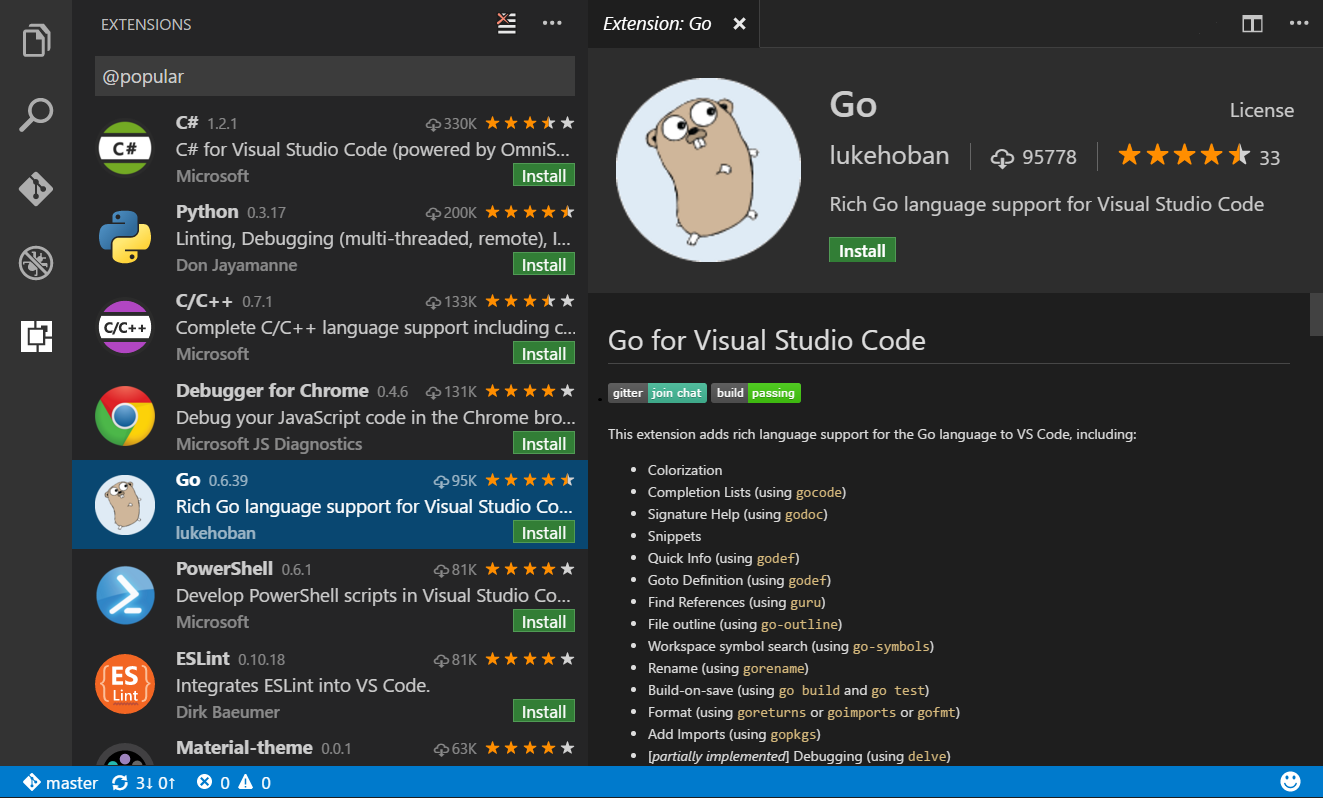
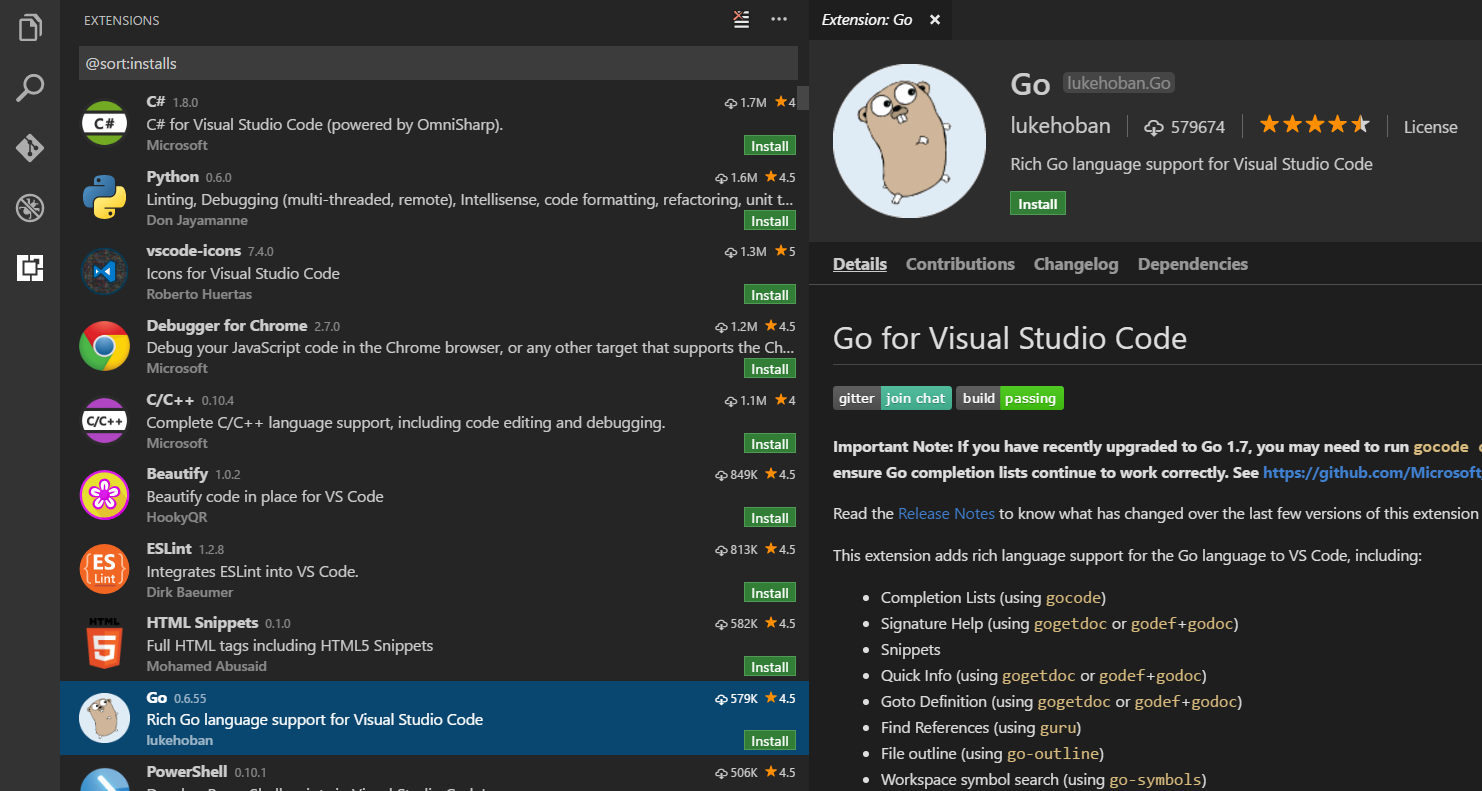
Call out extensions view contributions, changelog and dependencies. Fixes #696

diff --git a/docs/editor/extension-gallery.md b/docs/editor/extension-gallery.md
@@ -9,11 +9,11 @@ MetaDescription: Find out how to discover, add, update, disable and uninstall Vi
 ---
 # VS Code Extension Marketplace
 
-## Increase the power of VS Code through Extensions
+**Increase the power of VS Code through Extensions**
 
 The features that VS Code includes out-of-the-box are just the start. VS Code extensions let you add languages, debuggers, and tools to your installation to support your development workflow. VS Code's rich extensibility model lets extension authors plug directly into the VS Code UI and contribute functionality through the same APIs used by VS Code.  This topic explains how to find, install, and manage VS Code extensions.
 
-## Browse and Install Extensions in VS Code
+## Browse and install extensions
 
 You can browse and install extensions from within VS Code. Bring up the Extensions view by clicking on the Extensions icon in the **Activity Bar** on the side of VS Code.
 
@@ -24,6 +24,18 @@ This will show you a list of the most popular VS Code extensions on the [VS Code
 ![popular extensions](images/extension-gallery/extensions-popular.png)
 
 Each extension in the list includes a brief description, the publisher, the download count and a five star rating. You can click on the extension item to display the extension's [VS Code Marketplace](https://marketplace.visualstudio.com/VSCode) page where you can learn more.
+
+In addition you can also review the extension's:
+
+* **Contributions** - The extension's additions to VS Code such as settings, commands and keyboard shortcuts, language grammars, debugger, etc.
+* **Changelog** - The extension repository CHANGELOG if available.
+* **Dependencies** - Indicates if the extension depends on other extensions.
+
+![extension contributions](images/extension-gallery/extension-contributions.png)
+
+If an extension is an Extension Pack, the **Dependencies** tab will display which extensions will be installed. [Extension Packs](/docs/extensions/extension-manifest.md#extension-packs) bundle separate extensions together so they can be installed together.
+
+![extension dependencies](images/extension-gallery/extension-dependencies.png)
 
 >**Note:** If your computer's Internet access goes through a proxy server, you will need to configure the proxy server. See [Proxy Server Support](/docs/setup/setup-overview.md#proxy-server-support) for details.
 
@@ -36,13 +48,13 @@ By clicking on the view's `...` **More** button, it is possible to show:
 
 You can sort the extension list by **Install Count** or **Rating** in either ascending or descending order.
 
-## Install an Extension
+## Install an extension
 
-Simply click the **Install** button and after a successful install, you'll see an **Enable** button which will prompt you to restart VS Code to enable the new extension.
+Simply click the **Install** button and after a successful install, you'll see an **Reload** button which will prompt you to restart VS Code to enable the new extension.
 
-## Search for an Extension
+## Search for an extension
 
-You can clear the Search box at the top of the Extensions View and type in the name of the extension, tool or programming language you're looking for. 
+You can clear the Search box at the top of the Extensions View and type in the name of the extension, tool or programming language you're looking for.
 
 For example, typing 'python' will bring up a list of Python language extensions:
 
@@ -50,35 +62,39 @@ For example, typing 'python' will bring up a list of Python language extensions:
 
 You can see a list of recommended extensions (based on your workspace file types), using **Show Recommended Extensions** which sets the '@recommended' filter.
 
-## List Installed Extensions
+## Manage extensions
+
+VS Code makes it very easy to manage your extensions. You can install, disable, update, and uninstall extensions through the Extensions view, **Command Prompt** (**Extensions"** scope) or command line.
+
+### List installed extensions
 
 **Show Installed Extensions** will clear the search box and shows the list of installed extensions.
 
-## Uninstall an Extension
+### Uninstall an extension
 
 To uninstall an extension, click the **Uninstall** button. This will uninstall the extension and prompt you to restart VS Code.
 
-## Update an Extension
+### Update an extension
 
 You can quickly look for extension updates by using the **Show Outdated Extensions** command which uses the '@outdated' filter.  This will display any available updates for your currently installed extensions. Simply click the **Update** button for the outdated extension and the update will be installed and you'll be prompted to restart VS Code. You can also update all your outdated extensions at one time with the **Update All Extensions** command.
 
-## Auto Update Extensions
+### Auto Update extensions
 
-If you would like your installed extensions to be updated automatically, you can use the `extensions.autoUpdate` [setting](/docs/getstarted/settings.md). When set to `true`, VS Code will download new versions of outdated extensions automatically and you will just need to restart VS Code when you see the blue **Enable** button in the Installed Extensions list.
+If you would like your installed extensions to be updated automatically, you can use the `extensions.autoUpdate` [setting](/docs/getstarted/settings.md). When set to `true`, VS Code will download new versions of outdated extensions automatically and you will just need to restart VS Code when you see the blue **Reload** button in the Installed Extensions list.
 
-## Disable an Extension
+### Disable an extension
 
 Disable an extension by clicking the settings icon next to the extension, as shown in the animation below. 
 
 ![disable an extension](images/extension-gallery/extensions-disable.gif)
 
-Alternatively, you can disable all extensions through the command line with the `--disable-extensions` option as shown below. 
+Alternatively, you can disable all extensions through the command line with the `--disable-extensions` option as shown below.
 
 ```
 code --disable-extensions /path/to/workspace
 ```
 
-## Command Line Extension Management
+## Command line extension management
 
 To make it easier to automate and configure VS Code, it is possible to list, install, and uninstall extensions from the [command line](/docs/editor/command-line.md). When identifying an extension, provide the full name of the form `publisher.extension`, for example `donjayamanne.python`.
 

diff --git a/blogs/2016/07/29/extensions-roundup-git.md b/blogs/2016/07/29/extensions-roundup-git.md
@@ -13,7 +13,7 @@ August 2, 2016 by Wade Anderson, [@waderyan_](https://twitter.com/waderyan_)
 
 The first extension I built for Visual Studio Code was called [Git Blame](https://marketplace.visualstudio.com/items?itemName=waderyan.gitblame). It lets you quickly see which developer most recently modified the currently selected line ("blame"). It was simple and effective. Since the time when I built this extension, there have been many more awesome Git extensions added to the VS Code [Marketplace](https://marketplace.visualstudio.com/VSCode). Here are some of my favorite.
 
-> Tip: Install any of these extensions by clicking the Extensions View button, typing the name of the extension in the Search box, and clicking **Install**. See more instructions [here](https://code.visualstudio.com/docs/editor/extension-gallery.md#browse-and-install-extensions-in-vs-code).
+> Tip: Install any of these extensions by clicking the Extensions View button, typing the name of the extension in the Search box, and clicking **Install**. See more instructions [here](https://code.visualstudio.com/docs/editor/extension-gallery.md#browse-and-install-extensions).
 
 ## Annotator
 

diff --git a/docs/editor/userdefinedsnippets.md b/docs/editor/userdefinedsnippets.md
@@ -21,7 +21,7 @@ The snippet syntax follows the [TextMate snippet syntax](https://manual.macromat
 
 ## Add Snippets from the Marketplace
 
-Many [extensions](/docs/editor/extension-gallery.md) on the VS Code [Marketplace](https://marketplace.visualstudio.com/vscode) include snippets.  If you find one you want to use, simply install it and restart VS Code and the new snippet will be available (see [here](/docs/editor/extension-gallery.md#browse-and-install-extensions-in-vs-code) for more instructions on installing an extension).
+Many [extensions](/docs/editor/extension-gallery.md) on the VS Code [Marketplace](https://marketplace.visualstudio.com/vscode) include snippets.  If you find one you want to use, simply install it and restart VS Code and the new snippet will be available (see [here](/docs/editor/extension-gallery.md#browse-and-install-extensions) for more instructions on installing an extension).
 
 Below are some popular extensions which include snippets in their language support:
 

diff --git a/blogs/2016/10/31/js_roundup_2.md b/blogs/2016/10/31/js_roundup_2.md
@@ -16,7 +16,7 @@ Visual Studio Code has excellent support for JavaScript out of the box. As with 
 
 But what other features can you get with VS Code? VS Code has a rich extensibility model and many features are provided through VS Code extensions. This post is a follow up to my [previous post](/blogs/2016/09/14/js_roundup_1.md) about JavaScript extensions.
 
-> **Tip:** Install any of these extensions by clicking the Extensions View button, typing the name of the extension in the Search box, and clicking **Install**. See more instructions [here](/docs/editor/extension-gallery.md#browse-and-install-extensions-in-vs-code).
+> **Tip:** Install any of these extensions by clicking the Extensions View button, typing the name of the extension in the Search box, and clicking **Install**. See more instructions [here](/docs/editor/extension-gallery.md#browse-and-install-extensions).
 
 ## Debugger for Chrome
 

diff --git a/blogs/2016/09/14/js_roundup_1.md b/blogs/2016/09/14/js_roundup_1.md
@@ -20,7 +20,7 @@ Visual Studio Code is not an IDE, but you can extend it to do many of the things
 
 Below are some of the essential JavaScript extensions that I and many of you are using every day.
 
-> **Tip:** Install any of these extensions by clicking the Extensions View button, typing the name of the extension in the Search box, and clicking **Install**. See more instructions [here](/docs/editor/extension-gallery.md#browse-and-install-extensions-in-vs-code).
+> **Tip:** Install any of these extensions by clicking the Extensions View button, typing the name of the extension in the Search box, and clicking **Install**. See more instructions [here](/docs/editor/extension-gallery.md#browse-and-install-extensions).
 
 ## ESLint
 

diff --git a/docs/languages/cpp.md b/docs/languages/cpp.md
@@ -23,7 +23,7 @@ We're still shaping the C++ experience in VS Code so now is a great time to [pro
 * Open VS Code.
 * Click the Extensions View icon on the Sidebar.
 * Search for `cpptools`.
-* Click **Install**, then click **Enable**.
+* Click **Install**, then click **Reload**.
 * Open a folder that contains your C/C++ code.
 
 **To enable code completion and navigation, you will need to generate a `c_cpp_properties.json` file:**
